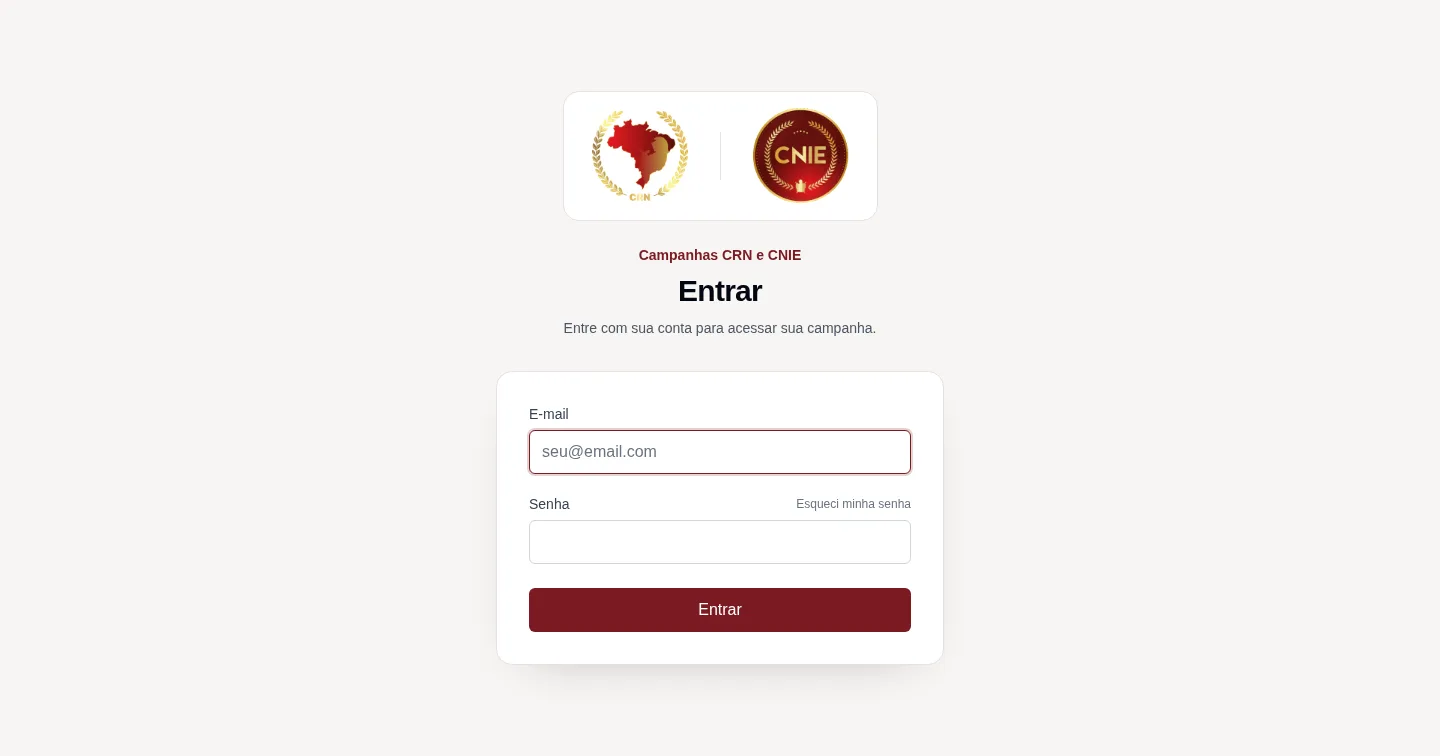
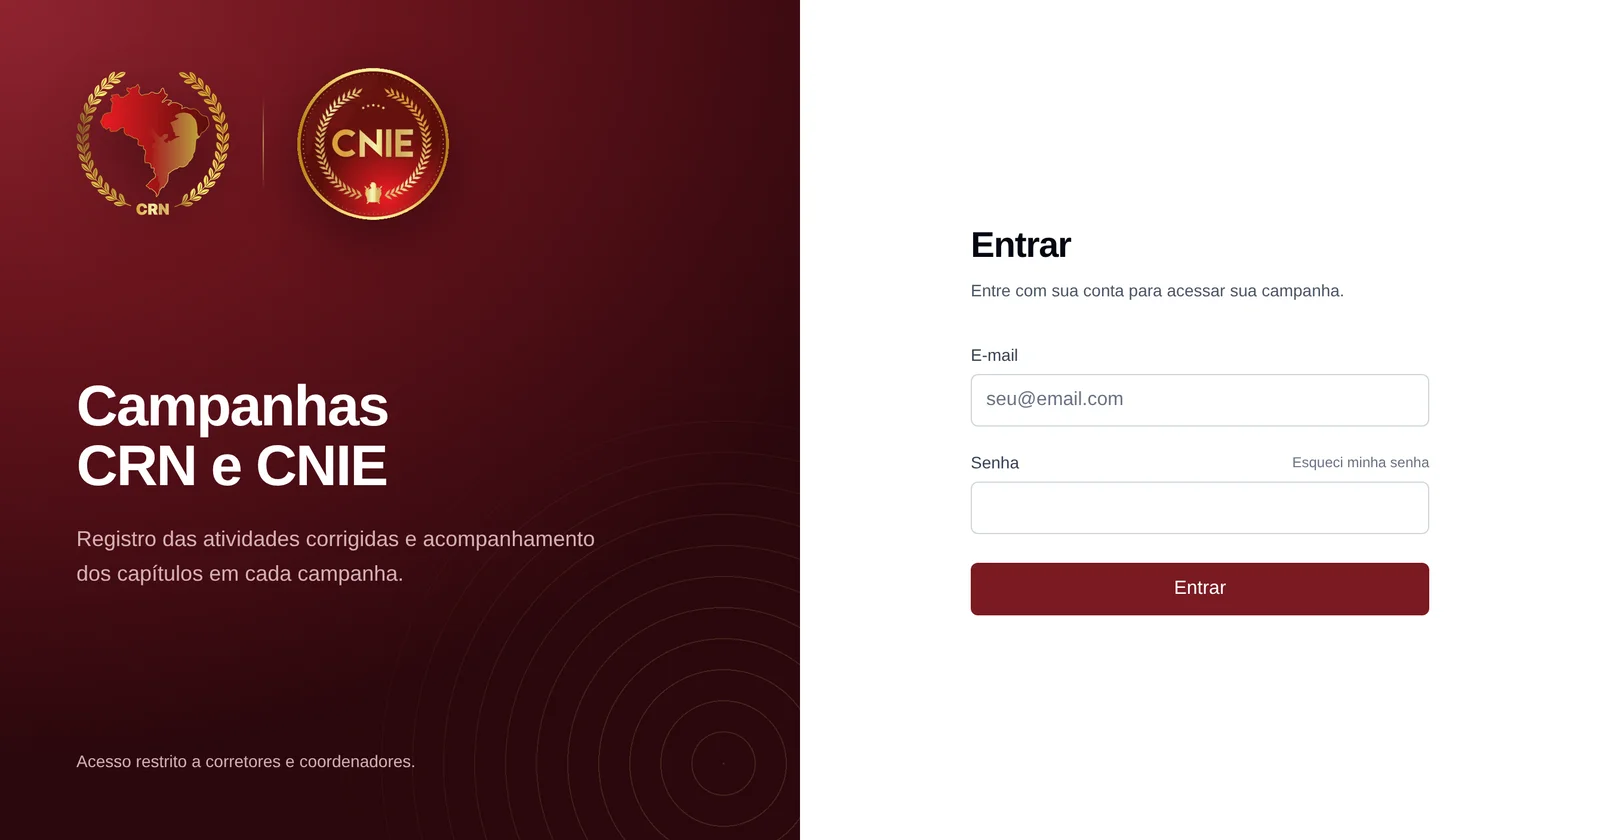
feat: atualiza print e descrição do CRN Cap
Novo print da tela de login redesenhada e descrição baseada no texto
do próprio sistema: registro das atividades corrigidas e acompanhamento
dos capítulos, com acesso restrito a corretores e coordenadores.

diff --git a/projects.js b/projects.js
@@ -98,8 +98,8 @@ const PROJECTS = [
     year: 2026,
     stack: ["Rails", "Hotwire", "Tailwind"],
     summary: {
-      pt: "Sistema com login onde cada capítulo DeMolay acompanha a própria campanha do CRN e da CNIE.",
-      en: "A login-based system where each DeMolay chapter tracks its own CRN and CNIE campaign.",
+      pt: "Sistema das campanhas CRN e CNIE da Ordem DeMolay: registro das atividades corrigidas e acompanhamento dos capítulos em cada campanha, com acesso restrito a corretores e coordenadores.",
+      en: "The DeMolay Order's CRN and CNIE campaign system: graded activities are recorded and each chapter is tracked across every campaign, with access restricted to graders and coordinators.",
     },
     study: null,
   },
